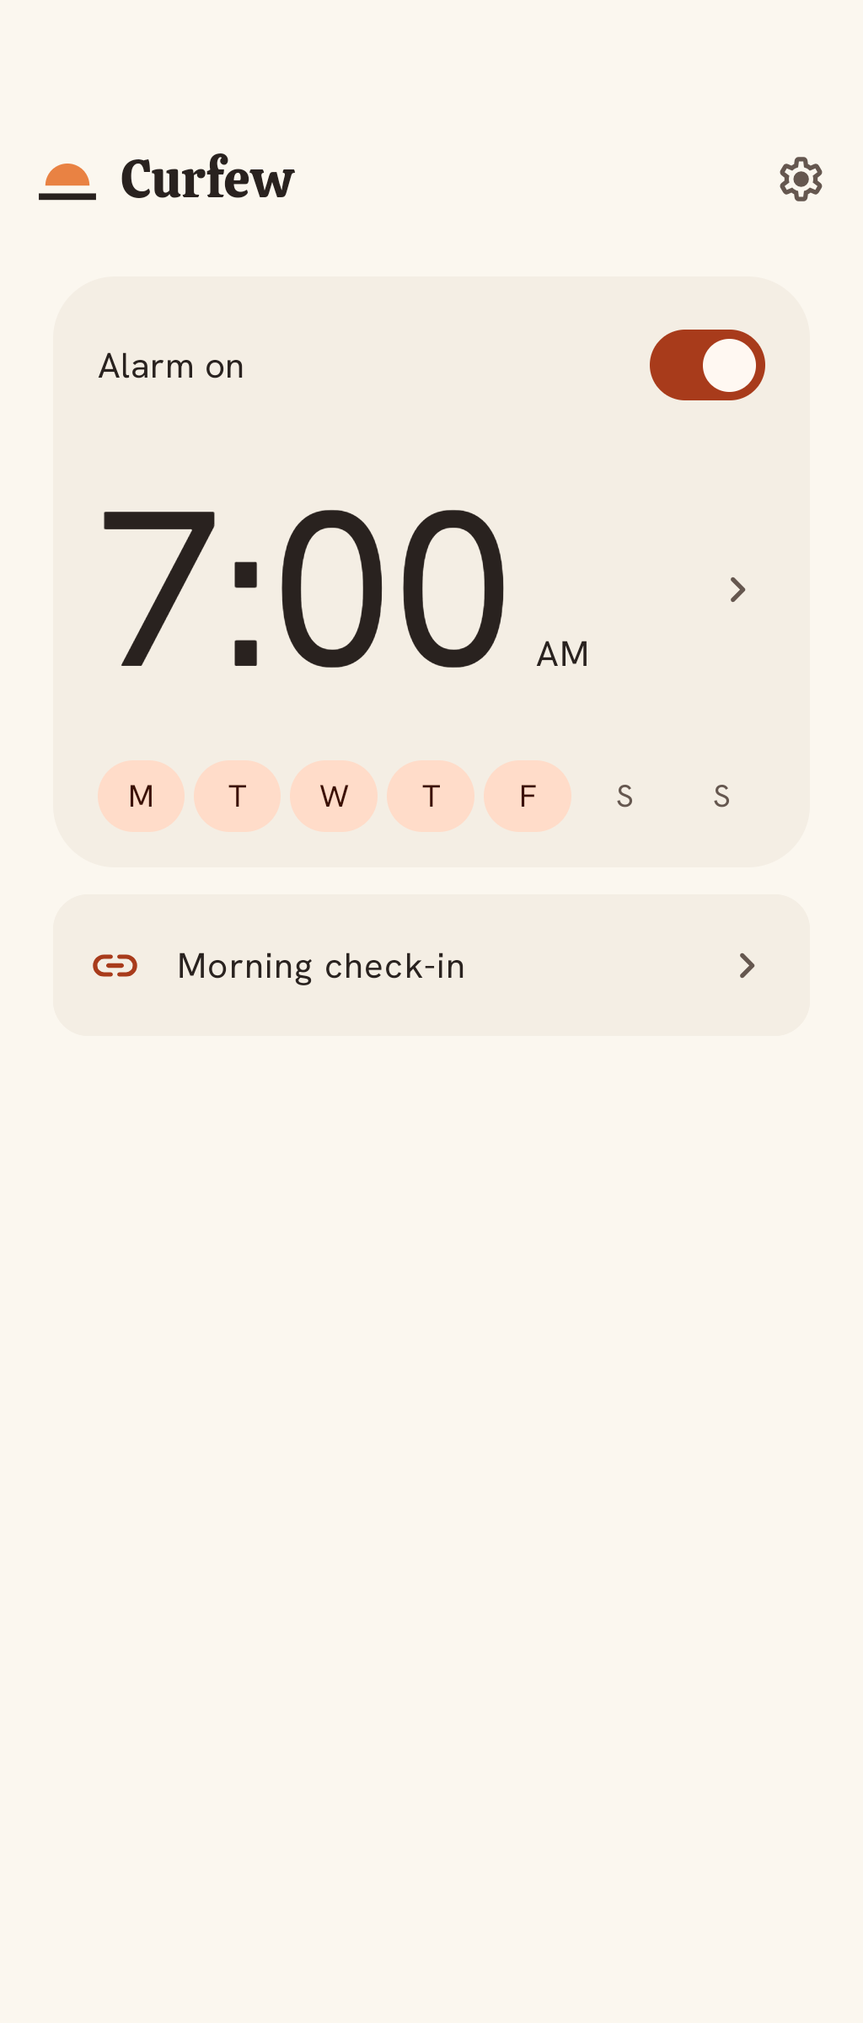
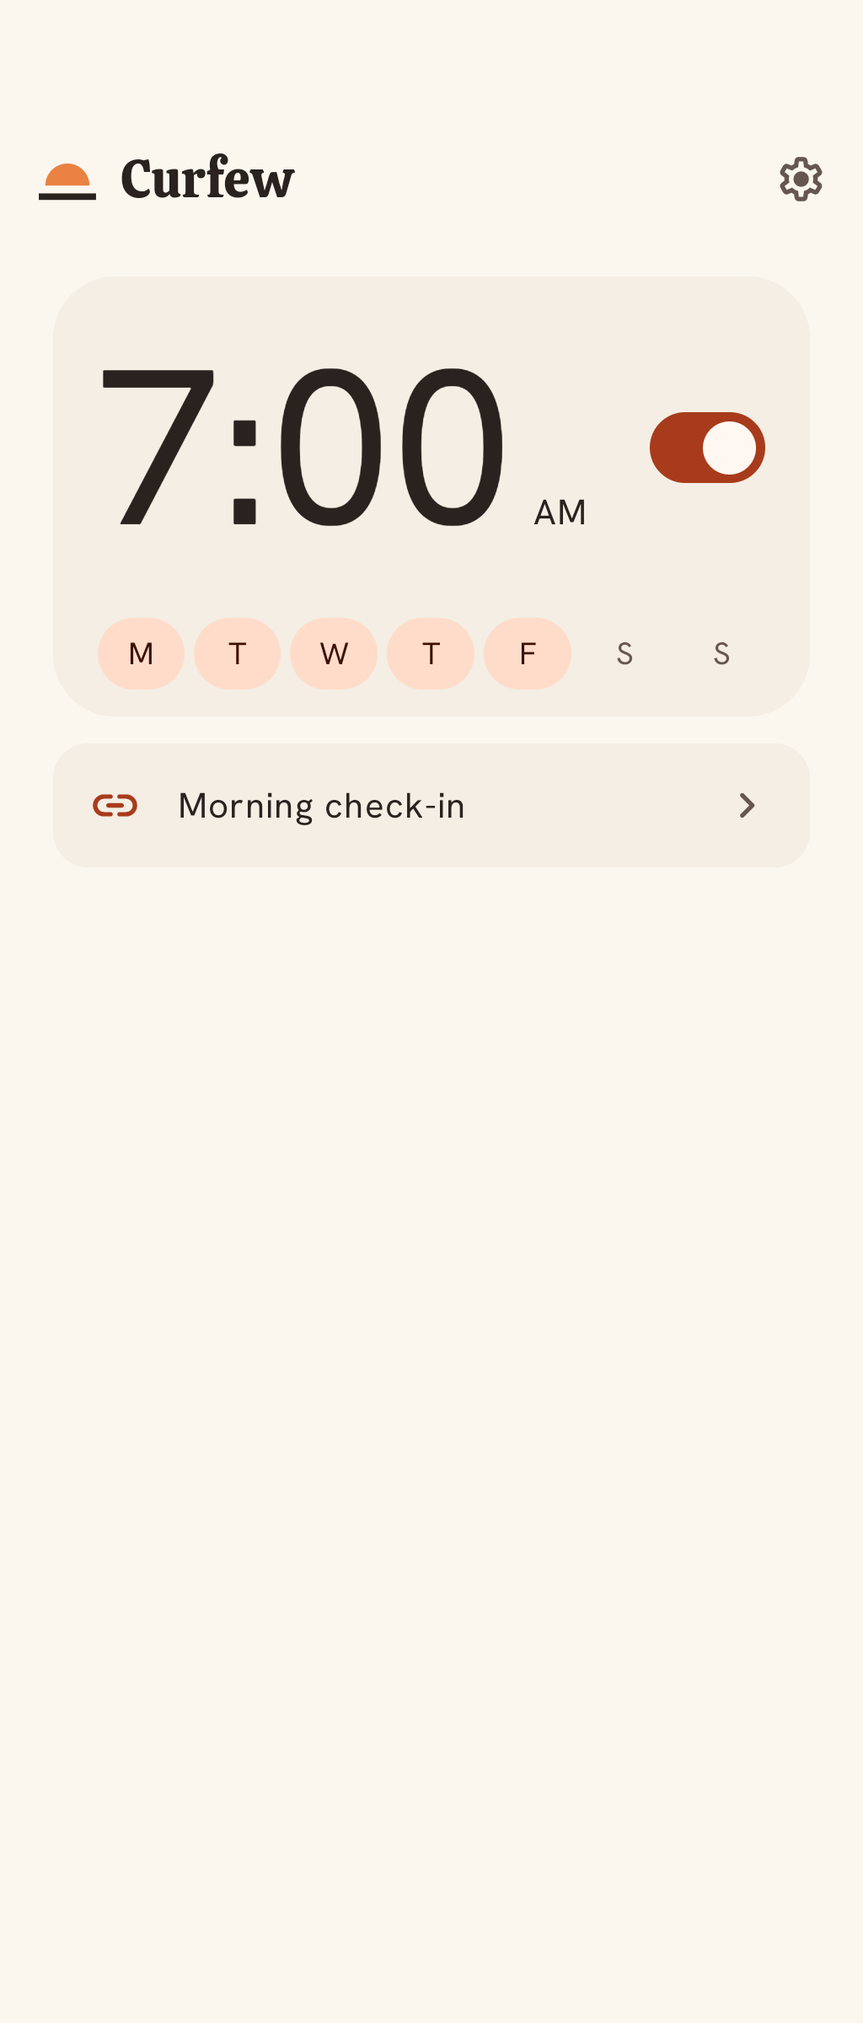
fix(ui): Keep alarm controls together with less empty space
The daily alarm spent a separate row repeating the switch state. That
made a single saved alarm taller without adding information. Place the
switch beside the editable time and reserve status text for incomplete
readiness or a completed one-night alarm.

Keep the measured clock size and tonal grouping. Reduce the surface's
vertical inset and use a 56dp minimum for ordinary setting rows. Larger
text and supporting information can still grow the row. Adapt the browser
review frame to the available height while preserving task scrolling.

Observe the new layout test failing before production changes. Verify
24 installed layout/navigation/capture cases, eight native fixtures,
both 181-case unit suites, both debug builds, and Android lint. The
separate API36 alarm-presentation CI failure remains unresolved.

diff --git a/app/src/androidTest/java/studio/hypertext/curfew/ui/SunriseDailyLayoutInstrumentedTest.kt b/app/src/androidTest/java/studio/hypertext/curfew/ui/SunriseDailyLayoutInstrumentedTest.kt
@@ -15,6 +15,8 @@ import androidx.compose.ui.semantics.SemanticsActions
 import androidx.compose.ui.test.SemanticsNodeInteraction
 import androidx.compose.ui.test.junit4.v2.createComposeRule
 import androidx.compose.ui.test.onNodeWithContentDescription
+import androidx.compose.ui.platform.testTag
+import androidx.compose.ui.test.onNodeWithTag
 import androidx.compose.ui.test.onNodeWithText
 import androidx.compose.ui.test.performSemanticsAction
 import androidx.compose.ui.text.TextLayoutResult
@@ -51,7 +53,7 @@ class SunriseDailyLayoutInstrumentedTest {
             val density = LocalDensity.current
             CompositionLocalProvider(LocalDensity provides Density(density.density, scale.floatValue)) {
                 CurfewTheme(dynamicColor = false) {
-                    Box(Modifier.width(width.dp).then(if (height == null) Modifier.fillMaxHeight() else Modifier.height(height.dp))) {
+                    Box(Modifier.testTag("daily-fixture").width(width.dp).then(if (height == null) Modifier.fillMaxHeight() else Modifier.height(height.dp))) {
                         SunriseDailyScreen(
                             alarm = SavedSunriseAlarm(SunriseSchedule("layout-alarm", wakeTime, onceDate, if (onceDate == null) DayOfWeek.entries.take(5).toSet() else emptySet(), true, "check-in"),
                                 nextDate?.let { SunriseOccurrence("layout-occurrence", it, it.atTime(wakeTime).atZone(ZoneId.systemDefault()).toInstant()) }),
@@ -72,27 +74,40 @@ class SunriseDailyLayoutInstrumentedTest {
         compose.onNodeWithText("Finish setup").assertExists()
     }
 
+    @Test fun ordinaryAlarmDoesNotSpendARowRepeatingItsSwitchState() {
+        show(1f, width = 390)
+        compose.onNodeWithText("Alarm on").assertDoesNotExist()
+        val toggle = compose.onNodeWithContentDescription("Enable future Sunrise alarms").fetchSemanticsNode().boundsInRoot
+        val numeric = wakeTime.format(DateTimeFormatter.ofPattern(if (DateFormat.is24HourFormat(context)) "HH:mm" else "h:mm", locale))
+        val time = compose.onNodeWithText(numeric, useUnmergedTree = true).fetchSemanticsNode().boundsInRoot
+        assertTrue("The switch belongs beside the time", toggle.center.y in time.top..time.bottom)
+        val checkIn = compose.onNodeWithText("Morning check-in").fetchSemanticsNode().boundsInRoot
+        val fixtureTop = compose.onNodeWithTag("daily-fixture").fetchSemanticsNode().boundsInRoot.top
+        val heightDp = (checkIn.bottom - fixtureTop) / context.resources.displayMetrics.density
+        assertTrue("The ordinary alarm and check-in must fit within 280dp: height=$heightDp time=$time checkIn=$checkIn fixtureTop=$fixtureTop", heightDp <= 280f)
+    }
+
     @Test fun ordinaryPhoneGivesTheWakeTimeVisualPriority() {
         show(1f, width = 390)
         val numeric = wakeTime.format(DateTimeFormatter.ofPattern(if (DateFormat.is24HourFormat(context)) "HH:mm" else "h:mm", locale))
         val time = compose.onNodeWithText(numeric, useUnmergedTree = true).textLayout()
-        val status = compose.onNodeWithText("Alarm on", useUnmergedTree = true).textLayout()
+        val status = weekday(DayOfWeek.MONDAY).textLayout()
         assertTrue("The chosen time must lead the single-alarm screen",
             time.layoutInput.style.fontSize.value >= 5f * status.layoutInput.style.fontSize.value)
     }
 
     @Test fun enlargedTextKeepsTheDailyGroupAtTheTop() {
         show(2f)
-        val start = compose.onNodeWithText("Alarm on").fetchSemanticsNode().boundsInRoot
+        val start = compose.onNodeWithContentDescription("Edit Sunrise").fetchSemanticsNode().boundsInRoot
         val density = context.resources.displayMetrics.density
-        assertTrue("Enlarged text must start near the top instead of centering a long task", start.top <= 40f * density)
+        assertTrue("Enlarged text must start near the top instead of centering a long task", start.top - compose.onNodeWithTag("daily-fixture").fetchSemanticsNode().boundsInRoot.top <= 40f * density)
     }
 
     @Test fun shortPhoneKeepsTheDailyGroupAtTheTop() {
         show(1f, width = 390, height = 360)
-        val start = compose.onNodeWithText("Alarm on").fetchSemanticsNode().boundsInRoot
-        assertTrue("The status must fit within the initial 56dp of the short task: $start",
-            start.top <= 56f * context.resources.displayMetrics.density)
+        val start = compose.onNodeWithContentDescription("Edit Sunrise").fetchSemanticsNode().boundsInRoot
+        assertTrue("The editable time must fit within the initial 56dp of the short task: $start",
+            start.top - compose.onNodeWithTag("daily-fixture").fetchSemanticsNode().boundsInRoot.top <= 56f * context.resources.displayMetrics.density)
     }
 
     @Test fun weekdaysRemainSeparatedAtNarrowWidthAndLargeText() {
@@ -121,9 +136,9 @@ class SunriseDailyLayoutInstrumentedTest {
         val twentyFour = DateFormat.is24HourFormat(context)
         val numeric = wakeTime.format(DateTimeFormatter.ofPattern(if (twentyFour) "HH:mm" else "h:mm", locale))
         val numericLayout = compose.onNodeWithText(numeric, useUnmergedTree = true).textLayout()
-        val statusLayout = compose.onNodeWithText("Alarm on", useUnmergedTree = true).textLayout()
+        val statusLayout = weekday(DayOfWeek.MONDAY).textLayout()
         assertFalse("The numeric time must not clip: ${numericLayout.diagnostics()}", numericLayout.hasVisualOverflow)
-        assertTrue("The time must remain larger than its status", numericLayout.layoutInput.style.fontSize.value >= statusLayout.layoutInput.style.fontSize.value * 1.5f)
+        assertTrue("The time must remain larger than a day label", numericLayout.layoutInput.style.fontSize.value >= statusLayout.layoutInput.style.fontSize.value * 1.5f)
         if (!twentyFour) {
             val period = wakeTime.format(DateTimeFormatter.ofPattern("a", locale))
             val periodLayout = compose.onNodeWithText(period, useUnmergedTree = true).textLayout()

diff --git a/app/src/main/java/studio/hypertext/curfew/ui/SunriseDailyScreen.kt b/app/src/main/java/studio/hypertext/curfew/ui/SunriseDailyScreen.kt
@@ -71,7 +71,7 @@ internal fun SettingRow(title: String, detail: String? = null, icon: Int? = null
         leadingContent = icon?.let { { Icon(painterResource(it), null, tint = MaterialTheme.colorScheme.primary) } },
         trailingContent = { Icon(painterResource(R.drawable.ic_chevron_right_rounded), null) },
         colors = ListItemDefaults.colors(containerColor = MaterialTheme.colorScheme.surfaceContainerLow),
-        modifier = Modifier.fillMaxWidth().heightIn(min = 64.dp).clickable(role = Role.Button, onClick = onClick),
+        modifier = Modifier.fillMaxWidth().heightIn(min = 56.dp).clickable(role = Role.Button, onClick = onClick),
     )
 }
 
@@ -107,26 +107,28 @@ internal fun SunriseDailyScreen(
     } ?: false
     TaskContent(spacing = 12.dp, verticalPadding = 12.dp) {
         Surface(shape = MaterialTheme.shapes.extraLarge, color = MaterialTheme.colorScheme.surfaceContainerLow) {
-            Column(Modifier.fillMaxWidth().padding(horizontal = 20.dp, vertical = 16.dp), verticalArrangement = Arrangement.spacedBy(12.dp)) {
+            Column(Modifier.fillMaxWidth().padding(horizontal = 20.dp, vertical = 12.dp), verticalArrangement = Arrangement.spacedBy(12.dp)) {
                 if (saved == null) {
                     Text("No alarm set", style = MaterialTheme.typography.titleLarge)
                     FilledTonalButton(onClick = onEdit, modifier = Modifier.fillMaxWidth().heightIn(min = 52.dp).semantics { contentDescription = "Edit Sunrise" }) {
                         Text("Choose a wake time")
                     }
                 } else {
-                    Row(Modifier.fillMaxWidth(), verticalAlignment = androidx.compose.ui.Alignment.CenterVertically, horizontalArrangement = Arrangement.SpaceBetween) {
-                        Text(when { complete -> "One-night alarm complete"; saved.enabled && !canArm -> "Needs attention"; saved.enabled -> "Alarm on"; else -> "Alarm off" },
-                            style = MaterialTheme.typography.titleMedium, modifier = Modifier.weight(1f))
+                    if (complete || saved.enabled && !canArm) {
+                        Text(if (complete) "One-night alarm complete" else "Needs attention",
+                            style = MaterialTheme.typography.titleMedium)
+                    }
+                    Row(Modifier.fillMaxWidth(), verticalAlignment = androidx.compose.ui.Alignment.CenterVertically,
+                        horizontalArrangement = Arrangement.spacedBy(12.dp)) {
+                        Box(Modifier.weight(1f).heightIn(min = 48.dp).clickable(role = Role.Button, onClick = onEdit)
+                            .semantics { contentDescription = "Edit Sunrise" }) {
+                            DailyAlarmTime(saved.wakeTime, DateFormat.is24HourFormat(context), locale, Modifier.fillMaxWidth())
+                        }
                         if (!complete) Switch(
                             checked = saved.enabled, onCheckedChange = onToggle,
                             enabled = !busy && (saved.enabled || canArm),
                             modifier = Modifier.semantics { contentDescription = "Enable future Sunrise alarms" },
                         )
-                    }
-                    Row(Modifier.fillMaxWidth().clickable(role = Role.Button, onClick = onEdit).semantics { contentDescription = "Edit Sunrise" },
-                        verticalAlignment = androidx.compose.ui.Alignment.CenterVertically, horizontalArrangement = Arrangement.spacedBy(8.dp)) {
-                        DailyAlarmTime(saved.wakeTime, DateFormat.is24HourFormat(context), locale, Modifier.weight(1f))
-                        Icon(painterResource(R.drawable.ic_chevron_right_rounded), null, tint = MaterialTheme.colorScheme.onSurfaceVariant)
                     }
                     if (saved.onceDate == null) {
                         Row(Modifier.fillMaxWidth(), horizontalArrangement = Arrangement.spacedBy(4.dp)) {
@@ -184,7 +186,7 @@ private fun DailyAlarmTime(time: LocalTime, use24Hour: Boolean, locale: Locale, 
             val width = measurer.measure(numeric, numericStyle.copy(fontSize = candidate.sp), maxLines = 1).size.width
             if (width <= available) low = candidate else high = candidate
         }
-        val fittedStyle = numericStyle.copy(fontSize = low.sp, lineHeight = (low * 1.12f).sp)
+        val fittedStyle = numericStyle.copy(fontSize = low.sp, lineHeight = low.sp)
         if (inlinePeriod) {
             Row(Modifier.fillMaxWidth(), horizontalArrangement = Arrangement.spacedBy(8.dp), verticalAlignment = androidx.compose.ui.Alignment.Bottom) {
                 val numericWidth = measurer.measure(numeric, fittedStyle, maxLines = 1).size.width + 2

diff --git a/design/android-review/review.js b/design/android-review/review.js
@@ -13,7 +13,7 @@ function repeatText(){if(model.once)return 'One night · Tuesday 20 October';con
 function icon(name){return materialSymbols[name]||materialSymbols.link}
 function bar(title,back='home'){return title?`<header class="bar"><button class="icon" aria-label="Back" data-go="${back}">${icon('back')}</button><div class="bar-title">${title}</div></header>`:`<header class="bar"><div class="brand"><span class="horizon" aria-hidden="true"></span>Curfew</div><button class="icon" aria-label="Settings" data-go="settings">${icon('settings')}</button></header>`}
 function row(label,value,target,symbol=''){return `<button class="row" data-go="${target}">${symbol?`<span class="symbol" aria-hidden="true">${icon(symbol)}</span>`:''}<span class="copy"><strong>${label}</strong>${value?`<span class="small">${value}</span>`:''}</span><span class="chevron" aria-hidden="true">${icon('chevron')}</span></button>`}
-function hero(){return `<section class="hero" aria-label="Sunrise schedule"><div class="hero-top"><span class="label">${model.active?'Future alarms':model.complete?'Completed':model.enabled?'Alarm on':'Alarm off'}</span><button class="switch" role="switch" aria-label="${model.active?'Enable future Sunrise alarms':'Enable Sunrise'}" aria-checked="${model.enabled}" id="armed"><span></span></button></div><button class="time-button" data-go="edit" aria-label="Change wake time ${model.hour}:${model.minute}"><span class="time">${model.hour}:${model.minute}</span></button>${model.once?`<p class="next">${repeatText()}</p>`:`<div class="alarm-days" aria-label="Repeats ${repeatText()}">${names.map((day,i)=>`<span class="alarm-day ${model.days[i]?'selected':''}" aria-label="${day}${model.days[i]?', on':', off'}">${day.slice(0,1)}</span>`).join('')}</div>`}</section>`}
+function hero(){return `<section class="hero" aria-label="Alarm schedule">${model.complete?'<p class="label">One-night alarm complete</p>':''}<div class="alarm-time-row"><button class="time-button" data-go="edit" aria-label="Change wake time ${model.hour}:${model.minute}"><span class="time">${model.hour}:${model.minute}</span></button>${model.complete?'':`<button class="switch" role="switch" aria-label="${model.active?'Enable future alarms':'Enable alarm'}" aria-checked="${model.enabled}" id="armed"><span></span></button>`}</div>${model.once?`<p class="next">${repeatText()}</p>`:`<div class="alarm-days" aria-label="Repeats ${repeatText()}">${names.map((day,i)=>`<span class="alarm-day ${model.days[i]?'selected':''}" aria-label="${day}${model.days[i]?', on':', off'}">${day.slice(0,1)}</span>`).join('')}</div>`}</section>`}
 function go(state){clearTimeout(holdTimer);if(state==='edit'&&view!=='edit')draft={...model,days:[...model.days]};if(view==='edit'&&state!=='edit')draft=null;render(state)}
 function render(state){view=state;picker.value=[...picker.options].some(o=>o.value===state)?state:'home';document.getElementById('clock').textContent=model.active?'7:00':'9:41';document.getElementById('screen-label').textContent=['checking','rejected','unavailable','review'].includes(state)?'Proposed verifier-issued setup · The service shown is a sample.':state==='recovery-auth'?'Proposed Android credential handoff · No authorization occurs in this preview.':state==='connect'||state==='no-provider'?'Enrollment proposal · A supported verifier still needs implementation.':'Design proposal · This preview does not arm or release an alarm.';
 if(['home','unconfigured','off','active','complete'].includes(state)){

diff --git a/design/android-review/index.html b/design/android-review/index.html
@@ -19,10 +19,16 @@
 /* Keep actions beside their task instead of stretching a short form. */
 .screen:not(.ringing)>.space,.editor-fields>.space{display:none}
 .editor-fields{flex:initial}
-.daily .hero{padding-block:16px;gap:12px}
+.daily .hero{padding-block:12px;gap:12px}
 .daily .time-button{min-height:0}
-.daily .wake-summary>.row{min-height:64px;padding-block:8px}
-.phone[data-scale=large] .daily .hero{gap:12px;padding-block:16px}
+.daily .wake-summary>.row{min-height:56px;padding-block:8px}
+.phone[data-scale=large] .daily .hero{gap:12px;padding-block:12px}
+/* Size the review frame to the available window; retain scrolling in each task. */
+.phone:not(.wide){height:clamp(240px,calc(100svh - 150px),844px)}
+.alarm-time-row{display:flex;align-items:center;gap:12px;min-width:0}
+.alarm-time-row .time-button{flex:1;min-width:0;text-align:left;container-type:inline-size}
+.daily .alarm-time-row .time{font-size:clamp(40px,42cqw,100px);line-height:1}
+.alarm-time-row .switch{flex:none}
 </style></head><body>
 <div class="review"><header class="review-head"><div><h1>Curfew for Android</h1><p>Design review · Sample states · Native implementation pending</p></div><div class="review-controls"><label for="state">Screen</label><select id="state"><option value="home">Daily Sunrise</option><option value="off">Off</option><option value="complete">One-night complete</option><option value="unconfigured">First setup</option><option value="active">Active overview</option><option value="edit">Edit alarm</option><option value="setup">Readiness</option><option value="sound">Sound check</option><option value="connect">Connect a wake requirement</option><option value="no-provider">No setup provider</option><option value="review">Review verified setup</option><option value="checking">Checking connection</option><option value="rejected">Rejected setup</option><option value="unavailable">Service unavailable</option><option value="ringing">Ringing</option><option value="quiet">Quiet interval</option><option value="offline">Ringing offline</option><option value="recovery">Emergency recovery</option><option value="recovery-auth">Recovery authorization</option><option value="settings">Settings</option></select><button id="theme">Dark theme</button><button id="scale" aria-pressed="false">Large text</button><label for="window-size">Window</label><select id="window-size"><option value="390">Phone</option><option value="360">Narrow phone</option><option value="840">Expanded editor</option></select></div></header><div class="workspace"><div class="device-wrap"><div class="phone" id="phone" data-theme="light" data-scale="normal"><div class="status"><span id="clock">9:41</span><span class="status-icons" aria-label="Phone status"><span class="battery"></span></span></div><div id="app" style="display:contents"></div><div class="home-indicator" aria-hidden="true"></div></div><p class="state-label" id="screen-label"></p></div></div></div>
 <script src="material-symbols.js"></script><script src="review.js"></script></body></html>

diff --git a/docs/DESIGN.md b/docs/DESIGN.md
@@ -12,7 +12,7 @@ Use the shared Curfew design roles from `curfew/landing/public/design/tokens.css
 
 ## Screens and tasks
 
-Daily use centers on the saved time, seven visual alarm days or one-night date, the on/off control, and the named wake check. Group the time, days, and switch on one tonal surface. Give the check-in its own row. Do not add a status dashboard or explain each visible control in a paragraph. Use “Alarm on” and “Alarm off,” not “armed.” An enabled schedule with missing readiness says “Needs attention” and retains its setup repair action. The switch records the owner’s choice; it cannot establish that Android can deliver the alarm.
+Daily use centers on the saved time, seven visual alarm days or one-night date, the on/off control, and the named wake check. Group the time, days, and switch on one tonal surface. Give the check-in its own row. Do not add a status dashboard or explain each visible control in a paragraph. Let the switch show ordinary on/off state without a separate status row. An enabled schedule with missing readiness says “Needs attention” and retains its setup repair action. The switch records the owner’s choice; it cannot establish that Android can deliver the alarm.
 
 Alarm editing uses native time and date controls and one Save action. Keep a draft until Save. Back cancels changes. Show the actual next occurrence in the user's locale. A completed one-night alarm does not become a recurring alarm. Future edits and toggles cannot dismiss an active occurrence.
 
@@ -68,7 +68,9 @@ Limit the daily column to 420dp on expanded windows. Other tasks keep their
 Give the chosen time visual priority. Its numeric size can reach 100sp when
 width permits. Fit the time and localized period by measurement; narrow windows
 and enlarged text must retain readable values without clipping. The alarm
-surface uses 16dp vertical padding and 12dp gaps. Setting rows have a 64dp
+surface uses 12dp vertical padding and 12dp gaps. The time and switch share
+one row. Reserve a separate status for missing readiness or a completed
+one-night alarm. Keep the clock type size; compact the surrounding surface instead. Setting rows have a 56dp
 minimum and grow around their content. Keep top-aligned scrolling on short
 windows, during setup, and with enlarged text.
 

diff --git a/docs/TESTING.md b/docs/TESTING.md
@@ -260,3 +260,26 @@ serials or real devices. The permission driver additionally reads the native
 accessibility XML. It requires Needs attention, rejects Alarm on, and requires
 the specific Alarm access is off message before restoring access. Its native
 probe verifies platform readiness and durable state independently from copy.
+
+## Compact daily composition
+
+The October 20 density pass removes the repeated normal on/off status row.
+`SunriseDailyLayoutInstrumentedTest#ordinaryAlarmDoesNotSpendARowRepeatingItsSwitchState`
+failed against the earlier layout before production edits. It checks that
+the switch sits beside the time and that the ordinary 390dp alarm plus
+check-in fits within 280dp. Existing tests retain enlarged-text allocation,
+weekday separation, a one-night date, missing-readiness status, and clock
+formatting. Native captures cover both themes at 320/390dp and 100/200% text.
+
+This changes presentation only. The saved schedule, alarm delivery, and
+release authority do not change. Reverting the composition restores the
+previous spacing without a migration. The HTML review frame now fits the
+available viewport instead of forcing an 844px phone. Short review windows retain internal scrolling. The review remains a
+proposal and cannot establish native functionality.
+
+The final compact-layout run passed 24 installed API33 checks in 44.15s,
+including fourteen layout cases, nine navigation cases, and eight captures
+from one capture case. Plain/GMS builds, both 181-case unit suites, and both
+Android lint tasks passed. The source diff and preview JavaScript syntax
+checks passed. The earlier API36 CI alarm-presentation failure remains an
+independent P1 acceptance issue; these visual checks do not resolve it.

diff --git a/design/android-review/README.md b/design/android-review/README.md
@@ -70,3 +70,14 @@ superseded headings and copy and must not be used to assess the current UI.
 Use the live HTML for the current proposal and `native/` for the latest
 installed daily fixtures. Native fixtures cover 320/390dp, 100/200% text,
 and both themes. They establish rendered layout, not alarm delivery.
+
+## Compact daily group
+
+The October 20 follow-up removes the row that repeats the switch state.
+Place the switch beside the editable time and keep the visual days below.
+Retain the separate readiness and completed-alarm messages when needed.
+The native clock keeps its measured type size. The surface uses 12dp vertical
+padding, and ordinary setting rows have a 56dp minimum.
+The browser frame uses the available window height, bounded to 240–844px,
+so the review no longer forces a tall empty phone into a short window.
+No extra copy or decorative panels fill the remaining screen.
